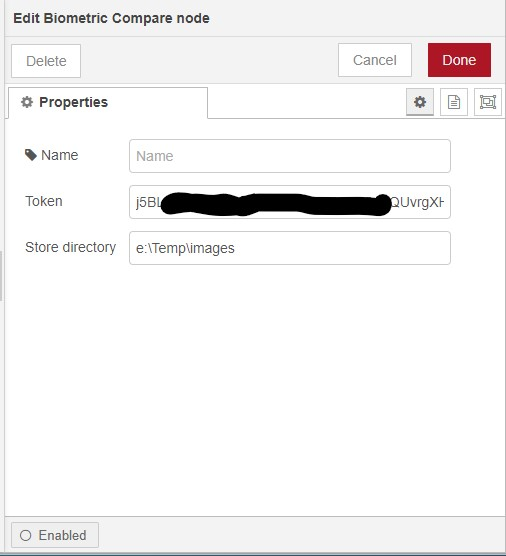
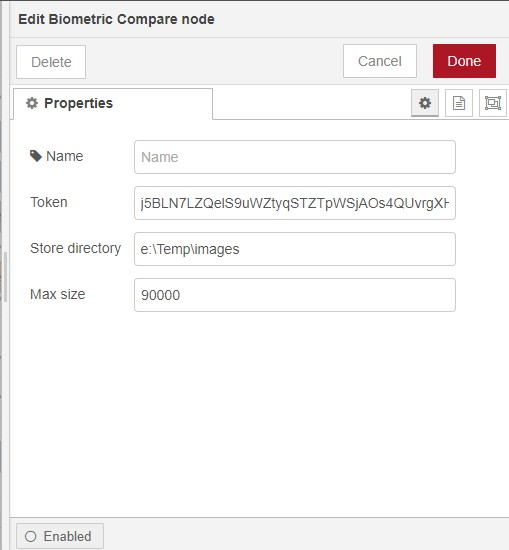
Change from request to https and add control of max image size

diff --git a/biometricvision/biometricCompare.js b/biometricvision/biometricCompare.js
@@ -1,18 +1,11 @@
 const logger = new (require("node-red-contrib-logger"))("Biometric Compare");
 logger.sendInfo("Copyright 2020 Jaroslav Peter Prib");
-/*
-commented code is to auto get new token if expired.
-api changes made it redundant but may be re-applied when bew version of api's is enhanced
 
-Logic for http is being constructed and not active
-*/
-
-const useHTTPS=false,
+const useHTTPS=true,  // set to false to request 
 	hostURL='https://biometricvisionapi.com',
 	compareAPI='/v1/compare',
 	compareURL=hostURL+compareAPI,
 	Jimp=require('jimp'),
-	maxImageSize=1000000,
 	https=require("https"),
 	request=require('request'),
 	Readable=require('stream').Readable,
@@ -268,32 +261,15 @@ function sendCompareHTTP(msg) {
 		if(!(image2 instanceof Buffer)) throw Error("image2 is not a buffer stream");
 
 		if(logger.active) logger.send({label:"image type",image1:objectType(image1),image2:objectType(image2)})
-//		let form = {
-//			image1:image2Stream('image1.jpg',image1),	
-//			image2:image2Stream('image1.jpg',image2)	
-//		};
 		const formData=new FormData();
 		formData.append('image1',image1,{filename:'image1'});				 
 		formData.append('image2',image2,{filename:'image2'});				 
 
-//		const options=optionsCompare;
-//		Object.assign(options.headers,node.headers,formData.getHeaders());
 		msg.requestTS={before:new Date()};
 		const options={method:"POST",
 			headers: Object.assign({"X-Authentication-Token": node.credentials.token},formData.getHeaders())
 		};
-//		const options=Object.assign({},node.options,formData.getHeaders());
 		if(logger.active) logger.send({label:"compare https.request",options:options});
-/*
-const requestCompare=https.request({
-    host: 'localhost',
-    port: '5000',
-    path: '/upload',
-    method: 'POST',
-    headers: form.getHeaders(),
-  },
-  response => {
-*/		
 		const requestCompare=https.request(compareURL,options, response=>{
 			if(logger.active) logger.send({label:"compare http callback",statusCode:response.statusCode,statusMessage:response.statusMessage,headers:response.headers});
 			const {statusCode}=response;
@@ -309,24 +285,31 @@ const requestCompare=https.request({
 			response.on('data', chunk=>rawData+=chunk);
 			response.on('end', ()=>{
 				try{
-					if(logger.active) logger.send({label:"compare response end",response:rawData});
-					const body=JSON.parse(rawData);
 					msg.requestTS.after=new Date();
 					msg.requestTS.elapse=msg.requestTS.after-msg.requestTS.before;
+					if(logger.active) logger.send({label:"compare response end",response:rawData});
+					const body=JSON.parse(rawData);
+					body.match=(body.confidence=="Match");
 					msg.payload=body;
-					node.send(msg);
+					if(body.match) node.send(msg)
+					else node.send([null,msg]);
+					if(!node.stateOK) {
+						node.stateOK=true;
+						node.status({fill:"green",shape:"ring",text:"processed compares"});
+					}
 				} catch(ex) {
+					logger.sendError({label:"compare http response",error:ex.message});
+					node.sendError(msg,error);
+					node.error(error);
 				}
 			});
-//see pipe	response.write(formData);
-//			response.end();
 		}).on('error', error=>{
-			logger.sendError({label:"request compare",error:error});
+			logger.sendError({label:"compare http on error compare",error:error});
 			node.sendError(msg,error);
 			node.error(error);
 		}).on('timeout',function(){
 			const error="timeout";
-			logger.sendError({label:"request compare",error:error});
+			logger.sendError({label:"compare http on timeout compare",error:error});
 			node.sendError(msg,error);
 			node.error(error);
 		});
@@ -393,7 +376,11 @@ function sendCompareRequest(msg) {
 				checkStatus(response.statusCode);
 				const body=response.body;
 				if(body.status && body.status=="error") throw Error(body.message);
+				body.match=(body.confidence=="Match");
 				msg.payload=body;
+				msg.payload=body;
+				if(body.match) node.send(msg)
+				else node.send([null,msg]);
 			} catch(ex){
 				try{
 /*					if(response.statusCode && response.statusCode == 401) {
@@ -417,8 +404,12 @@ function sendCompareRequest(msg) {
 				}
 				return;
 			}
-			if(msg.biometricvisionConnectTried) delete msg.biometricvisionConnectTried;
-			node.send(msg.payload?msg:[null,msg]);
+//			if(msg.biometricvisionConnectTried) delete msg.biometricvisionConnectTried;
+			node.send(msg.payload.match?msg:[null,msg]);
+			if(!node.stateOK) {
+				node.stateOK=true;
+				node.status({fill:"green",shape:"ring",text:"processed compares"});
+			}
 		});
 	} catch(ex) {
 		logger.send({label:"sendCompare request error",error:ex.message,stack:ex.stack});
@@ -430,14 +421,13 @@ function sendCompareRequest(msg) {
 module.exports = function(RED) {
 	function biometricCompareNode(config) {
 		RED.nodes.createNode(this, config);
-		const node=Object.assign(this,config,{checkStakeFrequencySecs:60,imageCache:{},imageCacheRetentionSecs:3600});
+		const node=Object.assign(this,{maxSize:10000000},config,{checkStakeFrequencySecs:60,imageCache:{},imageCacheRetentionSecs:3600});
 //		let node=Object.assign(this,config,{checkStakeFrequencySecs:60,imageCache:{},imageCacheRetentionSecs:3600,waitOnToken:[],tokenOK:false});
 		node.imageCache={};
 		node.saveImage=(()=>false);
 		if(node.directoryStore){
 			node.fs=require('fs'),
-			node.path=require('path'),
-			//const	{Readable}=require('stream');
+			node.path=require('path');
 			node.fs.stat(node.directoryStore, function(err, stats) {
 				try{
 					if(err) throw Error(err);
@@ -504,7 +494,7 @@ module.exports = function(RED) {
 				node.send([null,null,null,msg]); 
 		};
 		node.sizeImage=function(msg,imageBuffer,callBack){
-			const factor=maxImageSize/imageBuffer.length;
+			const factor=node.maxSize/imageBuffer.length;
 			if(factor>1){
 				callBack(msg,imageBuffer);
 				return;
@@ -598,7 +588,7 @@ module.exports = function(RED) {
 		node.releaseStaleImagesProcess = setInterval((node)=>node.releaseStaleImages(node), 1000*(node.checkStakeFrequencySecs||60),node);
 		node.on("close", function(removed,done) {
 			clearInterval(node.releaseStaleImagesProcess); 
-			node.connectionPool.close(done);
+			done();
 		});
 	} 
 

diff --git a/biometricvision/biometricCompare.html b/biometricvision/biometricCompare.html
@@ -21,7 +21,6 @@
 		<label for="node-input-name"><i class="fa fa-tag"></i> Name </label>
 		<input type="text" id="node-input-name" placeholder="Name">
 	</div>
-
 	<div class="form-row">
 		<label for="node-input-token"><i class="icon-bookmark"></i> Token</label>
 		<input type="text" id="node-input-token">
@@ -29,6 +28,10 @@
 	<div class="form-row">
 		<label for="node-input-directoryStore"><i class="icon-bookmark"></i>Store directory</label>
 	   <input type="text" id="node-input-directoryStore">
+	</div>
+	<div class="form-row">
+		<label for="node-input-maxSize"><i class="icon-bookmark"></i>Max size</label>
+		<input type="number" id="node-input-maxSize" min=40000 max=10000000 step=10000>
 	</div>
 
 </script>
@@ -39,6 +42,7 @@
 		category: 'function',
 		defaults: {
 			name: {value:"",required:false},
+			maxSize: {value:10000000,required:false},
 			directoryStore: {value:"",required:false}
 		},
 		credentials: {

diff --git a/README.md b/README.md
@@ -2,6 +2,15 @@
 
 [Node Red][1] node for determining if a person matches between two digital images returning probability factors on key metric using api's from [Biometric Vision][4].
 
+Features:
+
+
+*   Auto resize if image payload size too large
+*	Reduce max size for performance
+*   Save and cache reference image for performance and 
+ 
+![Test Flow](documentation/testflows.JPG "Test Flow")
+
 ------------------------------------------------------------
 
 ## face compare
@@ -12,13 +21,13 @@ Token is obtained from [Biometric Vision][4] site.  Has free usage for small amo
 
 Topics can be set to control
 
-** Cache/<identifier> ** Put image in payload into cache
+Cache/< identifier >	Put image in payload into cache
 
-** compare/<identifier> ** Compare image payload with image associated with identifier
+compare/< identifier > 	Compare image payload with image associated with identifier
 
-** save/<identifier> ** Put image in payload into cache and persist file system
+save/< identifier > 	Put image in payload into cache and persist file system
 
-** clearCache ** Clear the cache
+clearCache Clear the cache
 
 otherwise compares payload.image1 to payload.image2
 
@@ -37,6 +46,8 @@ from [github repro][2]
 ------------------------------------------------------------
 
 # Version
+
+0.0.3 change from request to http.  Fix bug in sending to unmatch port and add match flag.
 
 0.0.2 initial release
 
